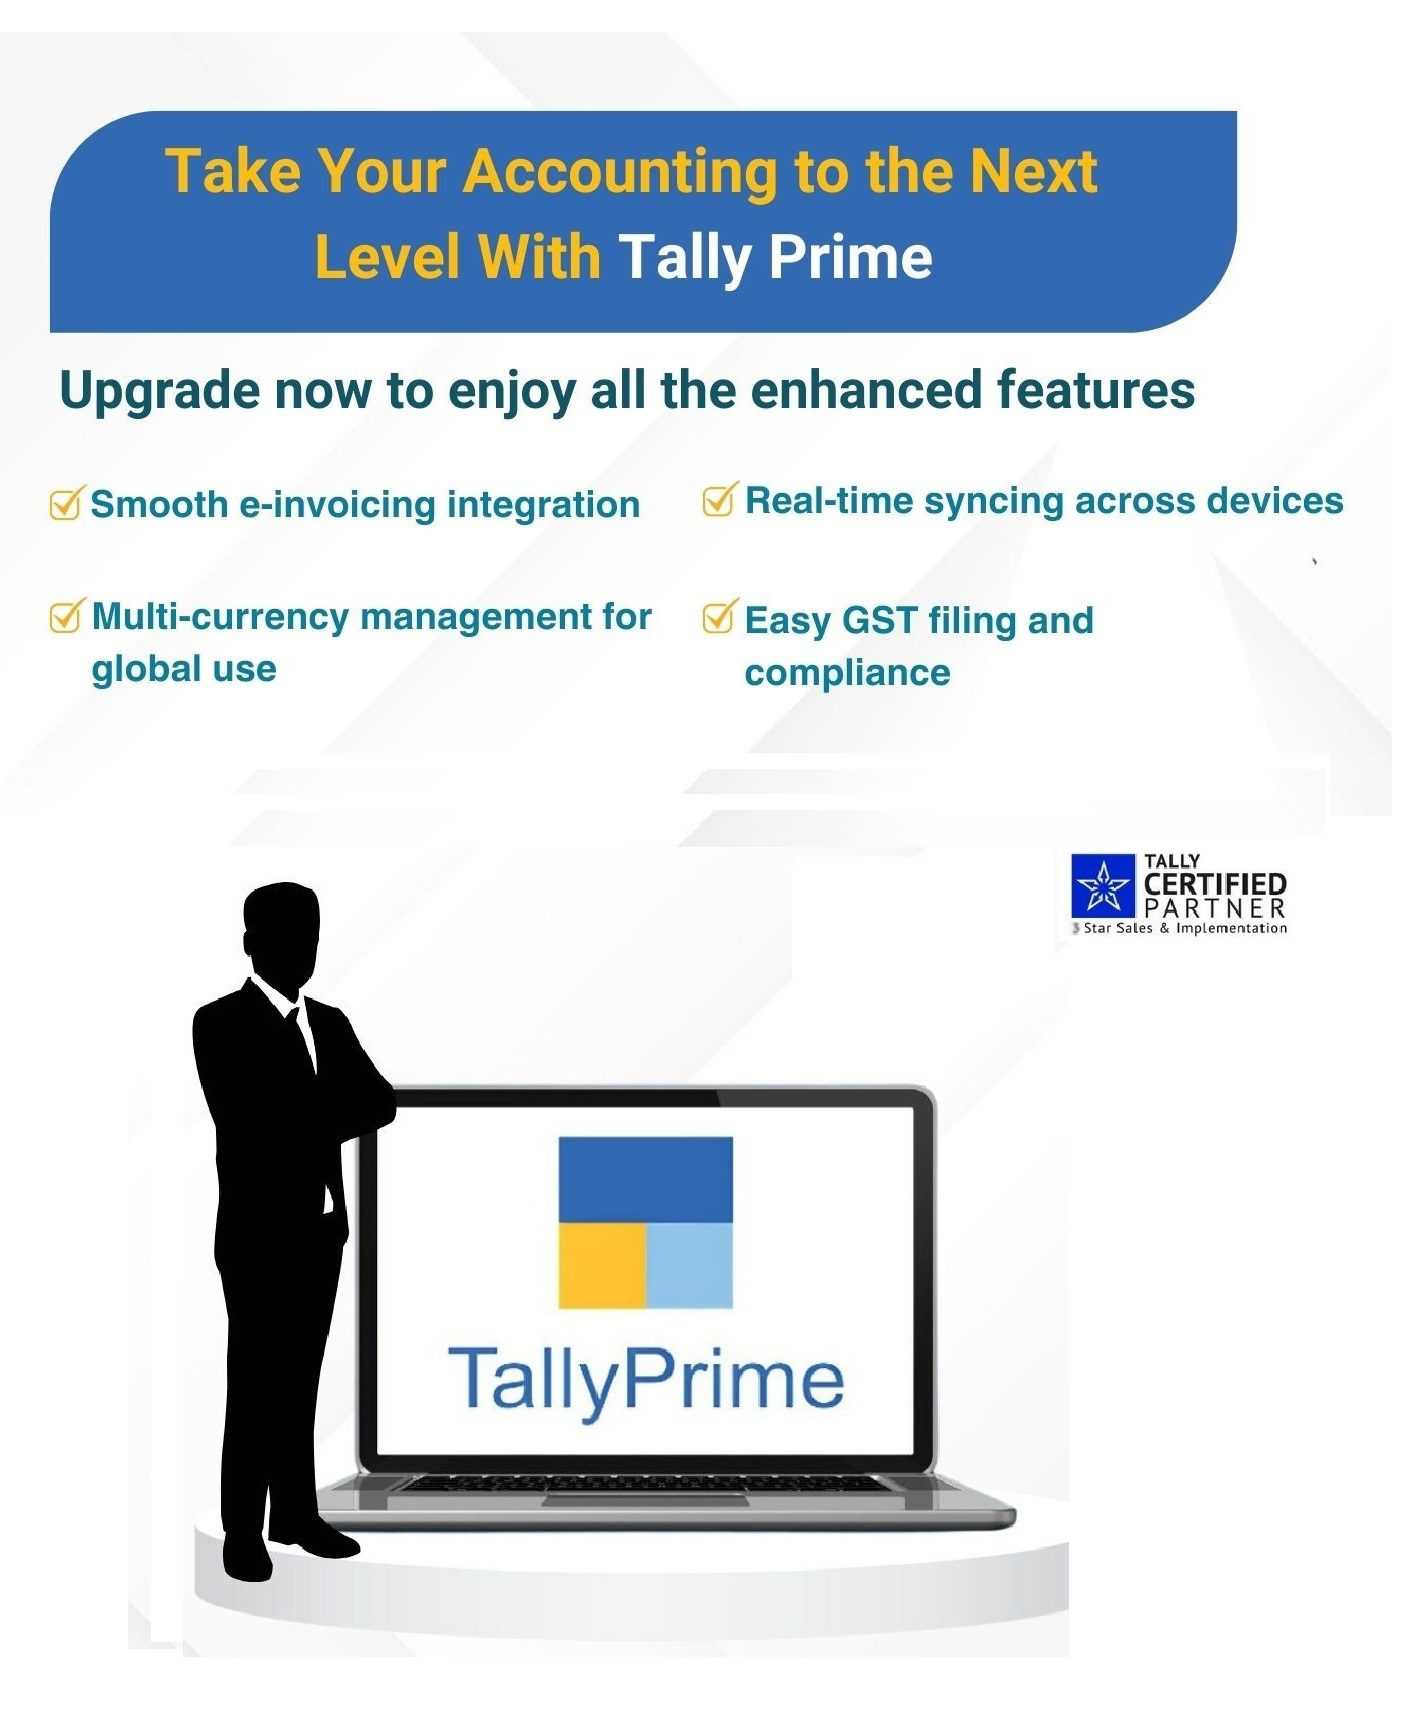
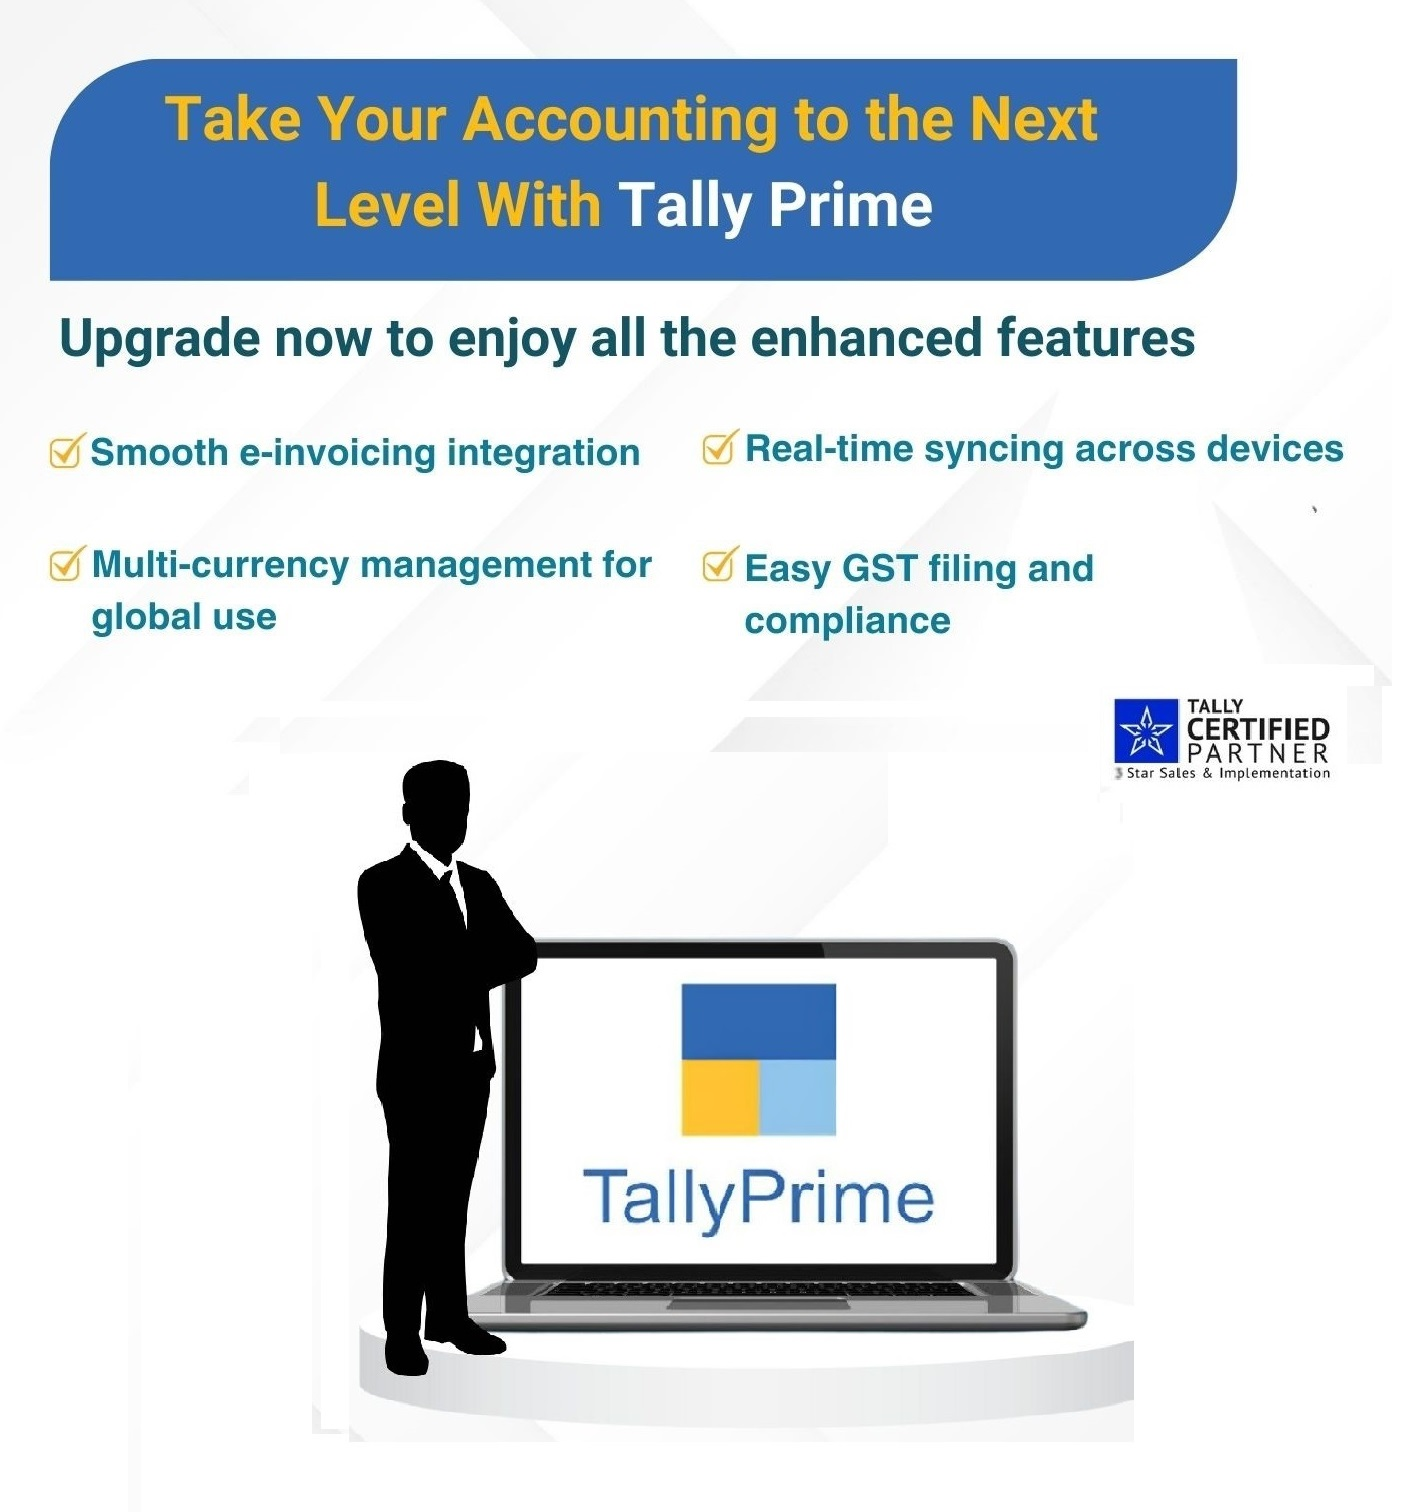
changes in mobile image sizes

diff --git a/styles.css b/styles.css
@@ -298,7 +298,7 @@ p {
 @media (max-width: 768px) {
   .tally-banner-container {
     margin-top: -30px;
-    height: 550px;
+    height: 500px;
   }
   .enquire-now-btn {
     padding: 8px 10px;
